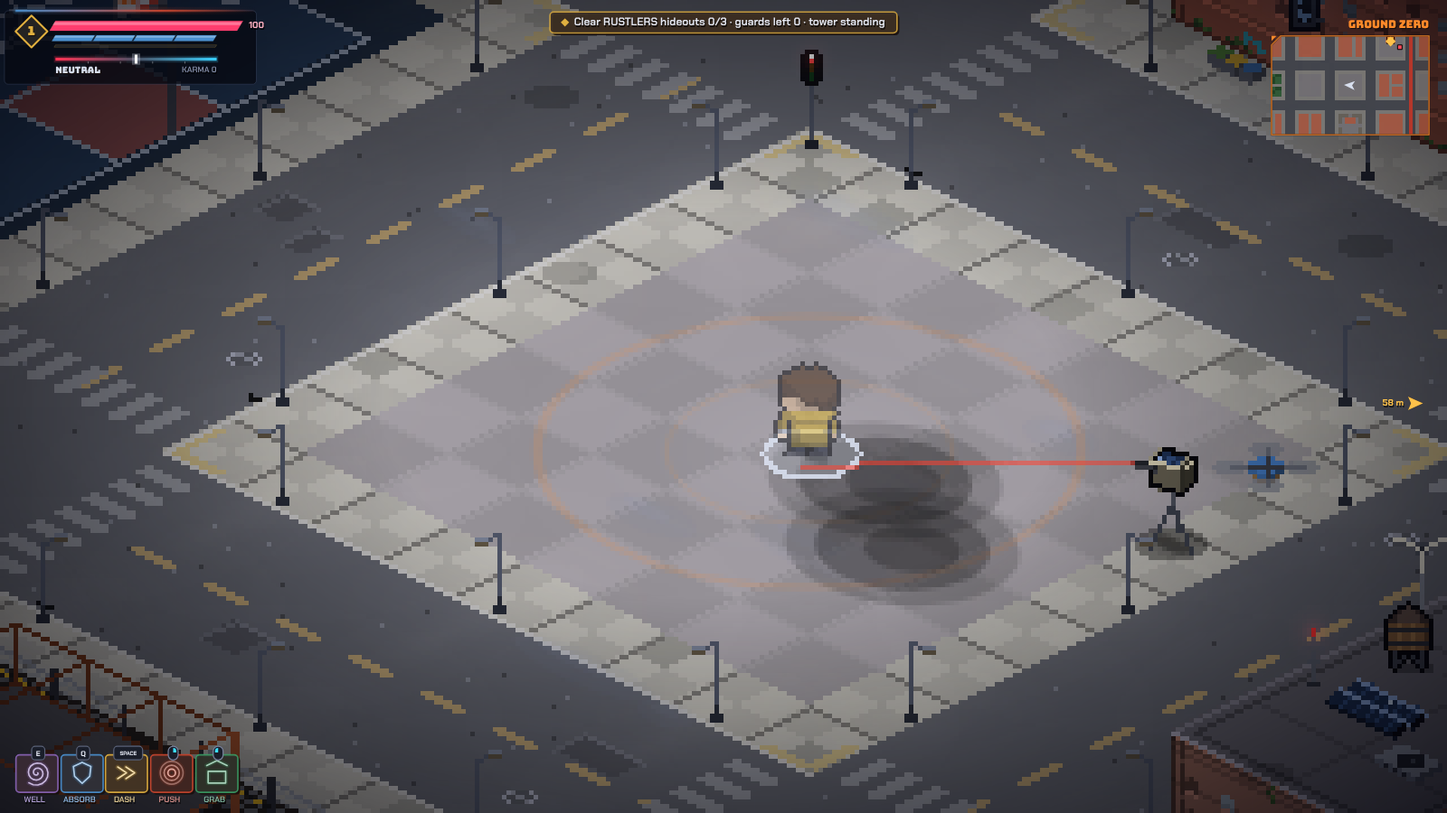
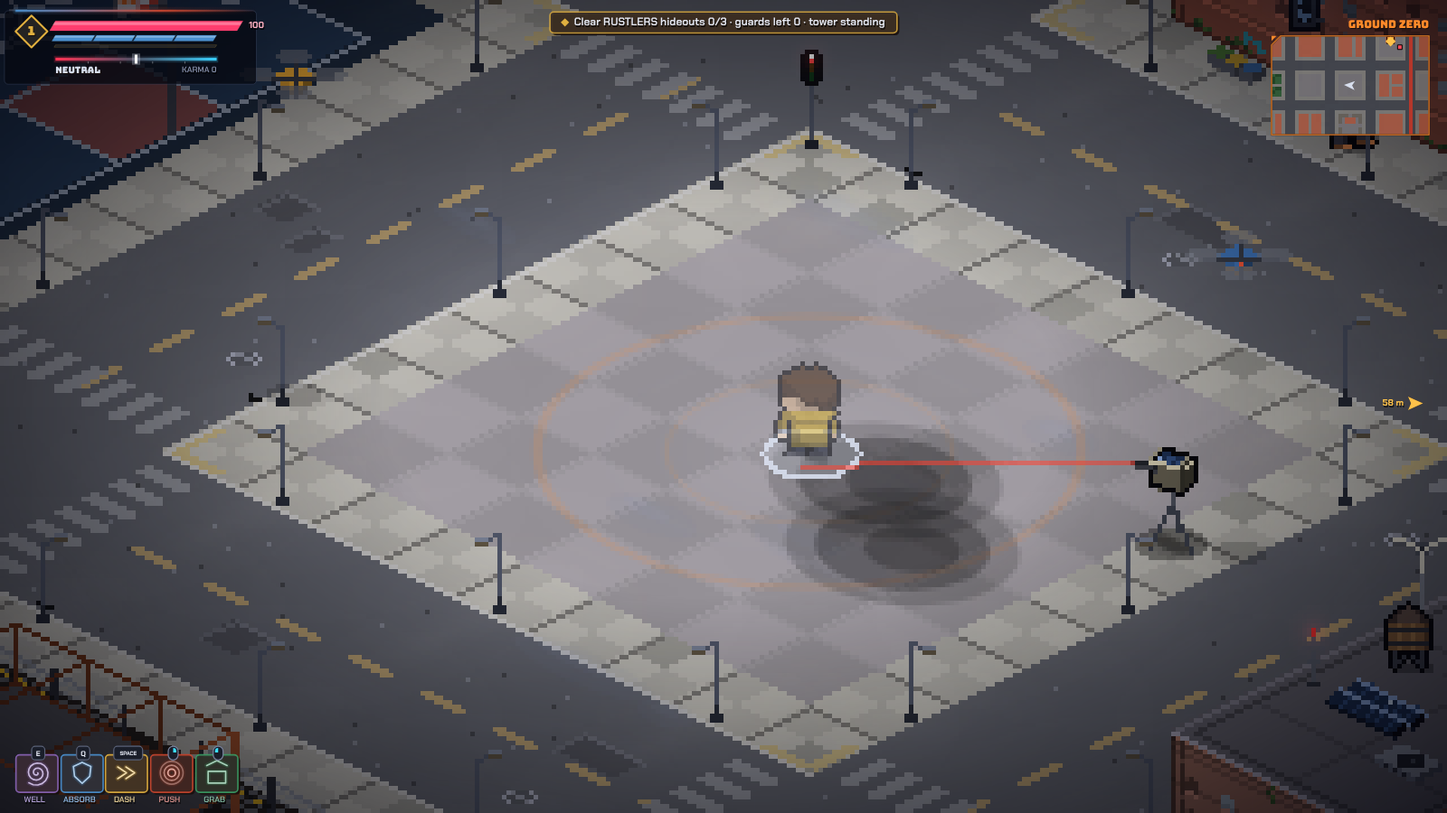
Fight tools: shattering solar panels, flooding water tanks, rogue couriers
Racks of spare solar panels shatter into shards that cut everything
nearby. Street water tanks burst and flood the ground: machines in the
water short out, and electricity reaching it hits everyone standing in
it. Rogue courier drones mark a spot on you and drop an explosive
parcel. All drawn in the iso view.

Claude-Session: https://claude.ai/code/session_01TQrqJid8SEs5fJFtrpg3VS

diff --git a/dist/gravitation.html b/dist/gravitation.html
@@ -1434,8 +1434,18 @@ function kill(e, info) {
   if (e.dead) return; e.dead = true; info = info || {};
   const k = e.kind, byP = info.by === 'player' || (k !== 'civ' && e.lastHitBy === 'player');   // a civilian you once brushed is not your kill when someone else finishes them
   if (e.held || e === (P && P.holding)) { e.held = false; if (P && P.holding === e) dropHeld(); }
+  if (k === 'panels') {   // solar panels shatter: a fan of glass shards that cuts anything in front of them
+    FX.sparks(e.x, e.y, 30, '#c8d8f0', 380); FX.debris(e.x, e.y, 16, '#2f4a7a', 300); sfx('hit', e.x, e.y); shake(.25);
+    for (const o of act) { if (o.dead || o.static || o.prop || o === P) continue; const d = Math.hypot(o.x - e.x, o.y - e.y); if (d < 90 + o.r) { hurt(o, 26 * (1 - d / 120), { by: byP ? 'player' : 'world' }); if (byP) o.lastHitBy = 'player'; } }
+    if (byP) comboHit(); return;
+  }
+  if (k === 'wtank') {    // a water tank bursts and floods the street for a while: machines in the water short out
+    FX.debris(e.x, e.y, 14, '#7a5636', 260); for (let i = 0; i < 30; i++) { const a = rnd(TAU), s = rnd(60, 220); parts.push({ k: 'd', x: e.x, y: e.y, vx: Math.cos(a) * s, vy: Math.sin(a) * s, life: rnd(.4, .9), max: .9, col: '#7aa8d8', w: 2.5 }); }
+    sfx('heavy', e.x, e.y); floods.push({ x: e.x, y: e.y, r: 70, t: 18, max: 18 }); if (byP) comboHit(); return;
+  }
   if (MACH[k] || k === 'cell') {   // machines: they break up in sparks; batteries and crawlers go off
     FX.sparks(e.x, e.y, 12, ZAP_COL, 240); FX.debris(e.x, e.y, k === 'loader' ? 14 : 6, '#5a5e6a', 200); FX.smoke(e.x, e.y, 3, '#3a3d48', .8); sfx('hit', e.x, e.y);
+    if (k === 'courier' && e.parcel !== false) explosion(e.x, e.y, 44, 12, byP ? 'player' : 'gang');
     if (k === 'crawler' || k === 'cell') elecBurst(e.x, e.y, k === 'cell' ? 84 : 72, k === 'cell' ? 30 : 22, byP ? 'player' : (info.by || 'gang'));
     if (e.team === 'gang') reward(e, byP); else if (k === 'cell' && byP) comboHit();
     if (k !== 'cell' && Math.random() < (k === 'sweeper' ? .5 : .35)) pickups.push({ x: e.x, y: e.y, vx: rnd(-40, 40), vy: rnd(-40, 40), type: 'en', life: 16 });   // solar cells: a bit of energy
@@ -2408,12 +2418,22 @@ Object.assign(DEFS, {
   scanner: { r: 8, m: 1, hp: 22, team: 'gang', rest: .4, grab: 1, xp: 10, speed: 70, hover: 30 },
   mirror:  { r: 9, m: 4, hp: 60, team: 'gang', static: 1, rest: .2, xp: 10 },
   vendbot: { r: 9, m: 4, hp: 40, team: 'bot', rest: .3, grab: 1, speed: 26 },
-  fixer:   { r: 7, m: 1, hp: 20, team: 'bot', rest: .4, grab: 1, speed: 80, hover: 26 }
+  fixer:   { r: 7, m: 1, hp: 20, team: 'bot', rest: .4, grab: 1, speed: 80, hover: 26 },
+  panels:  { r: 14, m: 8, hp: 30, team: 'prop', prop: 1, static: 1, rest: .2 },
+  wtank:   { r: 14, m: 10, hp: 70, team: 'prop', prop: 1, static: 1, rest: .2 },
+  courier: { r: 9, m: 1.2, hp: 26, team: 'gang', rest: .4, grab: 1, xp: 14, speed: 120, hover: 60 }
 });
-const MACH = { sweeper: 1, zapper: 1, crawler: 1, sentry: 1, loader: 1, mite: 1, hive: 1, scanner: 1, mirror: 1, vendbot: 1, fixer: 1 };
+const MACH = { sweeper: 1, zapper: 1, crawler: 1, sentry: 1, loader: 1, mite: 1, hive: 1, scanner: 1, mirror: 1, vendbot: 1, fixer: 1, courier: 1 };
 const ZAP_COL = '#fff2b0', ZAP_HOT = '#ffffff';
 const zaps = [];          // lightning drawn for a moment: { pts, life, max }
 const hazards = [];       // downed power lines: { x0, y0, x1, y1, t, arc, warn }
+const floods = [];        // water from a burst tank: { x, y, r, t, max }. Machines in it short out; electricity in it hits everyone standing in it
+const inFlood = e => floods.some(f => Math.hypot(e.x - f.x, e.y - f.y) < f.r);
+function floodShock(x, y, by) {   // electricity reaching water: everyone standing in that pool gets it
+  for (const f of floods) { if (Math.hypot(x - f.x, y - f.y) > f.r + 30) continue;
+    for (let i = 0; i < 5; i++) { const a = rnd(TAU), r = rnd(0, f.r); zapFx(f.x, f.y, f.x + Math.cos(a) * r, f.y + Math.sin(a) * r, .25); }
+    for (const e of act) if (!e.dead && !e.static && !e.prop && Math.hypot(e.x - f.x, e.y - f.y) < f.r) { if (e.kind === 'player' && by === 'player') continue; hurt(e, 18, { by }); if (e.kind !== 'player' && !e.dead) { e.stun = Math.max(e.stun, 1.2); if (by === 'player') e.lastHitBy = 'player'; } } }
+}
 
 /* ---------- electricity ---------- */
 function boltPts(x0, y0, x1, y1, n = 7, jag = 6) { const pts = [[x0, y0]]; for (let i = 1; i < n; i++) { const k = i / n; pts.push([lerp(x0, x1, k) + rnd(-jag, jag), lerp(y0, y1, k) + rnd(-jag, jag)]); } pts.push([x1, y1]); return pts; }
@@ -2423,7 +2443,7 @@ function elecBurst(x, y, r, dmg, by) {
   sfx('zap', x, y); sfx('boom', x, y, .5); shake(.4); hitstop(.04);
   FX.flash(x, y, r * 2.4, '#fff0c0', .4, 1); FX.ring(x, y, r, ZAP_COL, .3, 4); FX.sparks(x, y, 26, ZAP_COL, 380); FX.smoke(x, y, 4, '#4a4e58', 1);
   for (let i = 0; i < 6; i++) { const a = rnd(TAU), d = rnd(r * .4, r); zapFx(x, y, x + Math.cos(a) * d, y + Math.sin(a) * d, .22); }
-  decals.push({ x, y, r: r * .4, life: 30, k: 'scorch' });
+  decals.push({ x, y, r: r * .4, life: 30, k: 'scorch' }); floodShock(x, y, by);
   for (const e of act) {
     if (e.dead || e.static || e.held) continue;
     if (e.kind === 'player' && by === 'player') continue;
@@ -2547,7 +2567,14 @@ function aiMachine(e, dt) {
     if (d < e.r + t.r + 4 && e.cd <= 0) { if (t === P && P.absorbing) absorb(4); else hurt(t, 4, { by: 'gang', src: e }); FX.sparks(t.x, t.y, 4, ZAP_COL, 140); sfx('zap', e.x, e.y, .3); e.cd = .9; e.dartT = .45; const a = rnd(TAU); e.fx = Math.cos(a); e.fy = Math.sin(a); }
     return;
   }
-  if (k === 'loader') { e.tgt = t; aiBrute(e, dt); return; }   // a heavy walker: slams and charges like a brute
+  if (k === 'loader') { e.tgt = t; aiBrute(e, dt); return; }
+  if (k === 'courier') {   // rogue delivery drone: circles high, then marks a spot on you and drops its parcel (a small blast)
+    if (e.dropT > 0) { e.dropT -= dt; steer(e, e.dx - e.x, e.dy - e.y, e.speed * 1.4, dt, 6); if (e.dropT <= 0) { explosion(e.dx, e.dy, 52, 18, 'gang'); e.cd = 3.2; e.parcel = false; later(2.4, () => { if (!e.dead) e.parcel = true; }); } return; }
+    face(e, Math.atan2(dy, dx), dt, 6); e.orb = e.orb || (Math.random() < .5 ? 1 : -1);
+    if (d > 160) chase(e, t, e.speed, dt); else steer(e, -dy * e.orb + dx * .2, dx * e.orb + dy * .2, e.speed * .8, dt);
+    if (e.parcel !== false && d < 220 && e.cd <= 0) { e.dx = t.x + (t.vx || 0) * .5; e.dy = t.y + (t.vy || 0) * .5; e.dropT = .9; warnCircle(e.dx, e.dy, 52, .9, '#ff9a3a'); sfx('charge', e.x, e.y, .4); }
+    return;
+  }   // a heavy walker: slams and charges like a brute
 }
 
 /* ---------- downed power lines ---------- */
@@ -2566,6 +2593,9 @@ function updateHazards(dt) {
       if (h.arc <= 0) h.t = rnd(2.2, 4.2);
     } else if (h.t <= 0) { h.arc = .9; sfx('zap', (h.x0 + h.x1) / 2, (h.y0 + h.y1) / 2, .7); }
   }
+  for (const f of floods) { f.t -= dt; f.tick = (f.tick || 0) - dt; if (f.tick <= 0) { f.tick = .5; for (const e of act) if (!e.dead && MACH[e.kind] && e.team !== 'bot' && !e.static && Math.hypot(e.x - f.x, e.y - f.y) < f.r && !(e.def.hover)) { hurt(e, 6, { by: e.lastHitBy === 'player' ? 'player' : 'world' }); e.stun = Math.max(e.stun, .6); FX.sparks(e.x, e.y, 4, ZAP_COL, 120); } } }
+  for (let i = floods.length - 1; i >= 0; i--) if (floods[i].t <= 0) floods.splice(i, 1);
+  for (const h of hazards) if (h.arc > 0 && Math.random() < dt * 4) floodShock(h.x1, h.y1, 'world');   // a live cable lying in a flood
   for (const z of zaps) z.life -= dt; for (let i = zaps.length - 1; i >= 0; i--) if (zaps[i].life <= 0) zaps.splice(i, 1);
 }
 
@@ -2575,6 +2605,12 @@ function populateMachines() {
   for (let d = 0; d < 3; d++) for (let i = 0; i < [6, 4, 7][d]; i++) { const p = randomInDistrict(d, t => t === T.WALK, 10); if (p) mk('sweeper', p.x, p.y, { col: '#e0a030' }); }
   for (let d = 0; d < 3; d++) for (let i = 0; i < [4, 3, 5][d]; i++) { const p = randomInDistrict(d, t => t === T.WALK, 10); if (p) mk('vendbot', p.x, p.y, { col: pick(['#c8452e', '#2e7a5a', '#3a6aa8']), home: p }); }
   for (let d = 0; d < 3; d++) for (let i = 0; i < 2; i++) { const p = randomInDistrict(d, t => t === T.ROAD, 10); if (p) mk('fixer', p.x, p.y, { home: p }); }
+  floods.length = 0;
+  for (const b of blocks) { const r = mulberry(hash2(b.x + 3, b.y + 9)), cx = b.x + b.w / 2, cy = b.y + b.h / 2;
+    if ((b.kind === 'lot' || b.kind === 'yard' || b.kind === 'hide') && r() < .8) { const p = findFree(cx + rnd(-90, 90), b.y + b.h - 50, 40, 16); if (p) mk('panels', p.x, p.y, { ang: r() < .5 ? 0 : Math.PI / 2 }); }   // stacks of spare solar panels standing on edge
+    if ((b.kind === 'park' || b.kind === 'yard' || b.kind === 'court') && r() < .55) { const p = findFree(cx + rnd(-70, 70), cy + rnd(-70, 70), 50, 16); if (p) mk('wtank', p.x, p.y, { ang: 0 }); }   // street water tanks
+  }
+  for (let d = 0; d < 3; d++) for (let i = 0; i < [1, 2, 3][d]; i++) { const p = randomInDistrict(d, t => t === T.ROAD, 10); if (p && dist(p, START) > 500) spawnGang('courier', p.x, p.y, { home: p, terr: 360 }); }   // rogue couriers
   for (const b of blocks) {
     const cx = b.x + b.w / 2, cy = b.y + b.h / 2, d = b.d, home = { x: cx, y: cy };
     if (b.kind === 'yard') {   // the machine yard: a loader and its crawlers
@@ -6980,7 +7016,7 @@ const PROPS_ISO = { car: 1, crate: 1, dumpster: 1, barrel: 1 };
 // every person and prop is now pixel art; anything else (none at the moment) falls back to the old drawing
 function drawUpright(e) {
   if (PEOPLE[e.kind] || e === P) { artT(); drawChar(e); if (e.aimT > 0 && (e.kind === 'grunt' || e.kind === 'cop')) drawAimLaser(e); return; }
-  if (MACH[e.kind] || e.kind === 'cell') { artT(); drawMachine(e); return; }
+  if (MACH[e.kind] || e.kind === 'cell' || e.kind === 'panels' || e.kind === 'wtank') { artT(); drawMachine(e); return; }
   if (PROPS_ISO[e.kind]) { artT(); drawIsoProp(e); return; }
   if (e.kind === 'tower') { artT(); drawIsoTower(e); if (e.lk && e.lk.aimT > 0) drawAimLaser(e.lk); return; }
   uprightT(e.x, e.y);
@@ -8521,6 +8557,28 @@ function drawMachine(e) {
     if (e.hp < e.maxhp) { const top = P3(0, 0, 31), bw = 12, bx = Math.round(top[0] - 6), by = Math.round(top[1]); ctx.fillStyle = 'rgba(0,0,0,.7)'; ctx.fillRect(bx - 1, by - 1, bw + 2, 3); ctx.fillStyle = '#ff3d5a'; ctx.fillRect(bx, by, Math.max(0, Math.round(bw * e.hp / e.maxhp)), 1); }
     return;
   }
+  if (k === 'panels') {   // spare solar panels stood on edge in a timber rack
+    const P3 = mframe(e); mshadow(e, 14, 6);
+    pixBox(e, P3, 0, 26, 6, 0, 3, W('#5a3c1e'), W('#6a4a2a'));
+    for (let i = 0; i < 4; i++) pixBox(e, P3, -9 + i * 6, 2, 16, 3, 22 - i, W('#1c2e50'), W('#2f4a7a'), (s, quad, line) => { if (s === 0 || s === 2) return; line(s, 0, 21 - i, 1, 21 - i, '#8aa6d8'); line(s, .5, 3, .5, 21 - i, '#2f4a7a'); });
+    if (e.hp < e.maxhp && Math.random() < .2) FX.sparks(e.x, e.y, 1, '#c8d8f0', 60);
+    return;
+  }
+  if (k === 'wtank') {    // a street water tank: a timber barrel on steel legs, banded, with a tap
+    const P0 = propFrame({ x: e.x, y: e.y, ang: 0, z: 0 }); mshadow(e, 13, 6);
+    for (const [lx, ly] of [[-8, -8], [8, -8], [-8, 8], [8, 8]]) iline(P0(lx, ly, 0), P0(lx * .9, ly * .9, 12), '#3a3d48');
+    pixBox({ ang: 0 }, P0, 0, 22, 22, 12, 34, W('#7a5636'), W('#5c4a44'), (i, quad) => { for (const z of [15, 23, 31]) quad(i, 0, 1, z, z + 1.2, '#2b2d36'); for (let q = .2; q < 1; q += .2) quad(i, q, q + .02, 12, 34, '#5a3c22'); if (i === 0) quad(i, .45, .55, 13, 14.5, '#9aa0aa'); }, tp => { ipoly([tp(.2, .2), tp(.8, .2), tp(.8, .8), tp(.2, .8)], '#3a2e2c'); });
+    if (e.hp < e.maxhp && Math.random() < .3) parts.push({ k: 'd', x: e.x + rnd(-6, 6), y: e.y + 6, vx: rnd(-10, 10), vy: 30, life: .5, max: .5, col: '#7aa8d8', w: 2 });   // leaking
+    return;
+  }
+  if (k === 'courier') {  // rogue courier: a big four-rotor delivery drone with a parcel slung underneath, flying high
+    const hov = (e.def.hover || 60) - (e.dropT > 0 ? (1 - e.dropT / .9) * 20 : 0) + Math.sin(t * 4 + e.id) * 2, P3 = mframe(e, hov); mshadow(e, 8, 4);
+    const spin = Math.floor(t * 30) & 1;
+    for (const [ax, ay] of [[9, 9], [9, -9], [-9, 9], [-9, -9]]) { iline(P3(0, 0, 5), P3(ax, ay, 5), '#3a3e4a'); const c = P3(ax, ay, 7); iellipse(c[0], c[1], 4.5, 2, spin ? 'rgba(200,204,214,.75)' : 'rgba(122,127,140,.75)'); }
+    if (e.parcel !== false) { iline(P3(0, 0, 0), P3(0, 0, -5), '#2a2d36'); pixBox(e, P3, 0, 8, 8, -12, -5, W('#a08058'), W('#b8946a'), (i, quad) => quad(i, .45, .55, -12, -5, '#e0b040')); }
+    pixBox(e, P3, 0, 12, 10, 0, 6, W('#c8452e'), W('#d85a40'), (i, quad) => { if (i === 0) quad(i, .4, .6, 2, 4, '#1a2028'); quad(i, 0, 1, 0, 1, W('#8a2e20')); });
+    return;
+  }
   if (k === 'vendbot') {   // walking vending machine: a tall box on short legs, a glass front of cans, a coin slot, a solar lid
     const P3 = mframe(e), g = Math.floor(e.walk * 3) & 1; mshadow(e, 8, 4);
     for (const [ly, ph] of [[-3, 0], [3, 1]]) { const up = (ph ^ g) ? 1.5 : 0; pixBox(e, P3, 0, 3, 3, up, 4 + up, W('#2a2d36'), W('#3a3e4a')); }
@@ -8595,6 +8653,10 @@ function drawZaps() {
 // downed power lines: the cable on the ground, a spark crawling along it, the whole line flaring when it arcs
 function drawHazards() {
   const t = G.time;
+  for (const f of floods) {   // flood water: a dithered pool with ripples; it fades as it drains
+    if (!inView(f.x, f.y, f.r + 20)) continue; const a = Math.min(1, f.t / 3);
+    ctx.globalAlpha = .45 * a; gDither(f.x, f.y, f.r, '#4a7ab0'); ctx.globalAlpha = .22 * a; gDisc(f.x, f.y, f.r * .8, '#6a9ad0'); ctx.globalAlpha = .7 * a; gRing(f.x, f.y, f.r - ((t * 14) % 14), '#a8c8f0'); ctx.globalAlpha = 1;
+  }
   for (const h of hazards) {
     if (!inView((h.x0 + h.x1) / 2, (h.y0 + h.y1) / 2, 80)) continue;
     const a = isoXY(h.x0, h.y0, 0), b = isoXY(h.x1, h.y1, 0), mid = [(a[0] + b[0]) / 2 + 2, (a[1] + b[1]) / 2 + 2];

diff --git a/src/js/09c_machines.js b/src/js/09c_machines.js
@@ -15,12 +15,22 @@ Object.assign(DEFS, {
   scanner: { r: 8, m: 1, hp: 22, team: 'gang', rest: .4, grab: 1, xp: 10, speed: 70, hover: 30 },
   mirror:  { r: 9, m: 4, hp: 60, team: 'gang', static: 1, rest: .2, xp: 10 },
   vendbot: { r: 9, m: 4, hp: 40, team: 'bot', rest: .3, grab: 1, speed: 26 },
-  fixer:   { r: 7, m: 1, hp: 20, team: 'bot', rest: .4, grab: 1, speed: 80, hover: 26 }
+  fixer:   { r: 7, m: 1, hp: 20, team: 'bot', rest: .4, grab: 1, speed: 80, hover: 26 },
+  panels:  { r: 14, m: 8, hp: 30, team: 'prop', prop: 1, static: 1, rest: .2 },
+  wtank:   { r: 14, m: 10, hp: 70, team: 'prop', prop: 1, static: 1, rest: .2 },
+  courier: { r: 9, m: 1.2, hp: 26, team: 'gang', rest: .4, grab: 1, xp: 14, speed: 120, hover: 60 }
 });
-const MACH = { sweeper: 1, zapper: 1, crawler: 1, sentry: 1, loader: 1, mite: 1, hive: 1, scanner: 1, mirror: 1, vendbot: 1, fixer: 1 };
+const MACH = { sweeper: 1, zapper: 1, crawler: 1, sentry: 1, loader: 1, mite: 1, hive: 1, scanner: 1, mirror: 1, vendbot: 1, fixer: 1, courier: 1 };
 const ZAP_COL = '#fff2b0', ZAP_HOT = '#ffffff';
 const zaps = [];          // lightning drawn for a moment: { pts, life, max }
 const hazards = [];       // downed power lines: { x0, y0, x1, y1, t, arc, warn }
+const floods = [];        // water from a burst tank: { x, y, r, t, max }. Machines in it short out; electricity in it hits everyone standing in it
+const inFlood = e => floods.some(f => Math.hypot(e.x - f.x, e.y - f.y) < f.r);
+function floodShock(x, y, by) {   // electricity reaching water: everyone standing in that pool gets it
+  for (const f of floods) { if (Math.hypot(x - f.x, y - f.y) > f.r + 30) continue;
+    for (let i = 0; i < 5; i++) { const a = rnd(TAU), r = rnd(0, f.r); zapFx(f.x, f.y, f.x + Math.cos(a) * r, f.y + Math.sin(a) * r, .25); }
+    for (const e of act) if (!e.dead && !e.static && !e.prop && Math.hypot(e.x - f.x, e.y - f.y) < f.r) { if (e.kind === 'player' && by === 'player') continue; hurt(e, 18, { by }); if (e.kind !== 'player' && !e.dead) { e.stun = Math.max(e.stun, 1.2); if (by === 'player') e.lastHitBy = 'player'; } } }
+}
 
 /* ---------- electricity ---------- */
 function boltPts(x0, y0, x1, y1, n = 7, jag = 6) { const pts = [[x0, y0]]; for (let i = 1; i < n; i++) { const k = i / n; pts.push([lerp(x0, x1, k) + rnd(-jag, jag), lerp(y0, y1, k) + rnd(-jag, jag)]); } pts.push([x1, y1]); return pts; }
@@ -30,7 +40,7 @@ function elecBurst(x, y, r, dmg, by) {
   sfx('zap', x, y); sfx('boom', x, y, .5); shake(.4); hitstop(.04);
   FX.flash(x, y, r * 2.4, '#fff0c0', .4, 1); FX.ring(x, y, r, ZAP_COL, .3, 4); FX.sparks(x, y, 26, ZAP_COL, 380); FX.smoke(x, y, 4, '#4a4e58', 1);
   for (let i = 0; i < 6; i++) { const a = rnd(TAU), d = rnd(r * .4, r); zapFx(x, y, x + Math.cos(a) * d, y + Math.sin(a) * d, .22); }
-  decals.push({ x, y, r: r * .4, life: 30, k: 'scorch' });
+  decals.push({ x, y, r: r * .4, life: 30, k: 'scorch' }); floodShock(x, y, by);
   for (const e of act) {
     if (e.dead || e.static || e.held) continue;
     if (e.kind === 'player' && by === 'player') continue;
@@ -154,7 +164,14 @@ function aiMachine(e, dt) {
     if (d < e.r + t.r + 4 && e.cd <= 0) { if (t === P && P.absorbing) absorb(4); else hurt(t, 4, { by: 'gang', src: e }); FX.sparks(t.x, t.y, 4, ZAP_COL, 140); sfx('zap', e.x, e.y, .3); e.cd = .9; e.dartT = .45; const a = rnd(TAU); e.fx = Math.cos(a); e.fy = Math.sin(a); }
     return;
   }
-  if (k === 'loader') { e.tgt = t; aiBrute(e, dt); return; }   // a heavy walker: slams and charges like a brute
+  if (k === 'loader') { e.tgt = t; aiBrute(e, dt); return; }
+  if (k === 'courier') {   // rogue delivery drone: circles high, then marks a spot on you and drops its parcel (a small blast)
+    if (e.dropT > 0) { e.dropT -= dt; steer(e, e.dx - e.x, e.dy - e.y, e.speed * 1.4, dt, 6); if (e.dropT <= 0) { explosion(e.dx, e.dy, 52, 18, 'gang'); e.cd = 3.2; e.parcel = false; later(2.4, () => { if (!e.dead) e.parcel = true; }); } return; }
+    face(e, Math.atan2(dy, dx), dt, 6); e.orb = e.orb || (Math.random() < .5 ? 1 : -1);
+    if (d > 160) chase(e, t, e.speed, dt); else steer(e, -dy * e.orb + dx * .2, dx * e.orb + dy * .2, e.speed * .8, dt);
+    if (e.parcel !== false && d < 220 && e.cd <= 0) { e.dx = t.x + (t.vx || 0) * .5; e.dy = t.y + (t.vy || 0) * .5; e.dropT = .9; warnCircle(e.dx, e.dy, 52, .9, '#ff9a3a'); sfx('charge', e.x, e.y, .4); }
+    return;
+  }   // a heavy walker: slams and charges like a brute
 }
 
 /* ---------- downed power lines ---------- */
@@ -173,6 +190,9 @@ function updateHazards(dt) {
       if (h.arc <= 0) h.t = rnd(2.2, 4.2);
     } else if (h.t <= 0) { h.arc = .9; sfx('zap', (h.x0 + h.x1) / 2, (h.y0 + h.y1) / 2, .7); }
   }
+  for (const f of floods) { f.t -= dt; f.tick = (f.tick || 0) - dt; if (f.tick <= 0) { f.tick = .5; for (const e of act) if (!e.dead && MACH[e.kind] && e.team !== 'bot' && !e.static && Math.hypot(e.x - f.x, e.y - f.y) < f.r && !(e.def.hover)) { hurt(e, 6, { by: e.lastHitBy === 'player' ? 'player' : 'world' }); e.stun = Math.max(e.stun, .6); FX.sparks(e.x, e.y, 4, ZAP_COL, 120); } } }
+  for (let i = floods.length - 1; i >= 0; i--) if (floods[i].t <= 0) floods.splice(i, 1);
+  for (const h of hazards) if (h.arc > 0 && Math.random() < dt * 4) floodShock(h.x1, h.y1, 'world');   // a live cable lying in a flood
   for (const z of zaps) z.life -= dt; for (let i = zaps.length - 1; i >= 0; i--) if (zaps[i].life <= 0) zaps.splice(i, 1);
 }
 
@@ -182,6 +202,12 @@ function populateMachines() {
   for (let d = 0; d < 3; d++) for (let i = 0; i < [6, 4, 7][d]; i++) { const p = randomInDistrict(d, t => t === T.WALK, 10); if (p) mk('sweeper', p.x, p.y, { col: '#e0a030' }); }
   for (let d = 0; d < 3; d++) for (let i = 0; i < [4, 3, 5][d]; i++) { const p = randomInDistrict(d, t => t === T.WALK, 10); if (p) mk('vendbot', p.x, p.y, { col: pick(['#c8452e', '#2e7a5a', '#3a6aa8']), home: p }); }
   for (let d = 0; d < 3; d++) for (let i = 0; i < 2; i++) { const p = randomInDistrict(d, t => t === T.ROAD, 10); if (p) mk('fixer', p.x, p.y, { home: p }); }
+  floods.length = 0;
+  for (const b of blocks) { const r = mulberry(hash2(b.x + 3, b.y + 9)), cx = b.x + b.w / 2, cy = b.y + b.h / 2;
+    if ((b.kind === 'lot' || b.kind === 'yard' || b.kind === 'hide') && r() < .8) { const p = findFree(cx + rnd(-90, 90), b.y + b.h - 50, 40, 16); if (p) mk('panels', p.x, p.y, { ang: r() < .5 ? 0 : Math.PI / 2 }); }   // stacks of spare solar panels standing on edge
+    if ((b.kind === 'park' || b.kind === 'yard' || b.kind === 'court') && r() < .55) { const p = findFree(cx + rnd(-70, 70), cy + rnd(-70, 70), 50, 16); if (p) mk('wtank', p.x, p.y, { ang: 0 }); }   // street water tanks
+  }
+  for (let d = 0; d < 3; d++) for (let i = 0; i < [1, 2, 3][d]; i++) { const p = randomInDistrict(d, t => t === T.ROAD, 10); if (p && dist(p, START) > 500) spawnGang('courier', p.x, p.y, { home: p, terr: 360 }); }   // rogue couriers
   for (const b of blocks) {
     const cx = b.x + b.w / 2, cy = b.y + b.h / 2, d = b.d, home = { x: cx, y: cy };
     if (b.kind === 'yard') {   // the machine yard: a loader and its crawlers

diff --git a/test/machines.js b/test/machines.js
@@ -7,9 +7,9 @@ const { chromium } = require('playwright'); const path = require('path'); const 
   await p.goto('file://' + ROOT + '/dist/gravitation.html'); await p.waitForTimeout(400);
   await p.evaluate(() => localStorage.clear()); await p.reload(); await p.waitForTimeout(500);
   await p.evaluate(() => { KC.start(); KC.skip(); G.seen = new Proxy({}, { get: () => 1, set: () => true }); KC.time('day'); KC.weather('dry'); SETTINGS.hud = .7; });
-  const counts = await p.evaluate(() => { const c = {}; for (const e of ents) if (!e.dead && (MACH[e.kind] || e.kind === 'cell')) c[e.kind] = (c[e.kind] || 0) + 1; c.powerLines = hazards.length; return c; });
+  const counts = await p.evaluate(() => { const c = {}; for (const e of ents) if (!e.dead && (MACH[e.kind] || e.kind === 'cell' || e.kind === 'panels' || e.kind === 'wtank')) c[e.kind] = (c[e.kind] || 0) + 1; c.powerLines = hazards.length; return c; });
   console.log('in the world:', JSON.stringify(counts));
-  ok('every machine is placed in the world', ['sweeper', 'zapper', 'crawler', 'sentry', 'loader', 'cell', 'hive', 'scanner', 'mirror'].every(k => counts[k] > 0) && counts.powerLines > 0);
+  ok('every machine is placed in the world', ['sweeper', 'zapper', 'crawler', 'sentry', 'loader', 'cell', 'hive', 'scanner', 'mirror', 'vendbot', 'fixer', 'panels', 'wtank', 'courier'].every(k => counts[k] > 0) && counts.powerLines > 0);
   const stage = async (setup, ms, name) => { await p.evaluate(setup); await p.waitForTimeout(ms); await p.evaluate(() => { G.hint = null; G.toasts.length = 0; }); await p.screenshot({ path: ROOT + '/screenshots/machines_' + name + '.png' }); };
   const clear = `const x = 1008, y = 1392; for (const e of ents) if (e !== P && !e.dead && e.kind !== 'hideout' && e.kind !== 'tower' && Math.hypot(e.x - x, e.y - y) < 600) e.dead = true; KC.tp(x, y); P.invT = 1e9; P.hp = S.maxHp; P.energy = S.maxEn;`;
   // line-up: everything standing still, facing the camera
@@ -25,6 +25,10 @@ const { chromium } = require('playwright'); const path = require('path'); const 
   await stage(new Function(clear + `spawnGang('hive', P.x + 110, P.y - 20, { home: { x: P.x + 110, y: P.y - 20 }, terr: 400 });`), 3500, 'hive');
   await stage(new Function(clear + `const s = spawnGang('scanner', P.x + 90, P.y - 40, { home: { x: P.x, y: P.y }, terr: 600 }); s.sweep = Math.atan2(40, -90); s.ang = s.sweep; s.sweepT = 9; for (let i = 0; i < 2; i++) spawnGang('grunt', P.x + 200, P.y + 100 + i * 20, { home: { x: P.x + 200, y: P.y + 100 }, terr: 50 }).cd = 9;`), 900, 'scanner');
   await stage(new Function(clear + `KC.time('day'); spawnGang('mirror', P.x + 120, P.y - 60, { home: { x: P.x, y: P.y }, terr: 400 }); spawnGang('mirror', P.x - 60, P.y + 120, { home: { x: P.x, y: P.y }, terr: 400 });`), 2200, 'mirror');
+  await stage(new Function(clear + `KC.time('day'); const c = spawnGang('courier', P.x + 100, P.y - 40, { home: { x: P.x, y: P.y }, terr: 500 }); c.cd = 0;`), 1500, 'courier');
+  await stage(new Function(clear + `const w = mk('panels', P.x + 70, P.y - 10, { ang: 0 }); mk('wtank', P.x - 70, P.y + 60); for (let i = 0; i < 3; i++) { const g = spawnGang('crawler', P.x + 120 + i * 14, P.y - 40 + i * 20, { home: { x: P.x + 2000, y: P.y }, terr: 1 }); g.speed = 0; } KC.hurt(w, 99, { by: 'player' });`), 160, 'panels_shatter');
+  await stage(new Function(`const t = ents.find(e => e.kind === 'wtank' && !e.dead && Math.hypot(e.x - P.x, e.y - P.y) < 200); for (let i = 0; i < 3; i++) { const g = spawnGang('crawler', t.x + 20 + i * 12, t.y + 10, { home: { x: t.x + 2000, y: t.y }, terr: 1 }); g.speed = 0; } KC.hurt(t, 999, { by: 'player' });`), 1400, 'flood');
+  ok('a burst tank floods the street and shorts the machines in it', await p.evaluate(() => floods.length > 0 && ents.some(e => e.kind === 'crawler' && (e.dead || e.hp < e.maxhp))));
   const h = await p.evaluate(() => { const h = hazards[0]; KC.tp(h.x1 + 30, h.y1 + 30); P.invT = 1e9; return { x: h.x1, y: h.y1 }; });
   await p.waitForTimeout(1200); await p.evaluate(() => { const h = hazards[0]; h.arc = .9; h.t = 0; G.hint = null; G.toasts.length = 0; }); await p.waitForTimeout(250); await p.screenshot({ path: ROOT + '/screenshots/machines_power_line.png' });
   await stage(new Function(`KC.time('sunset'); const s = ents.find(e => e.kind === 'sweeper' && !e.dead); KC.tp(s.x + 40, s.y + 30); P.invT = 1e9;`), 1500, 'sweeper_street');

diff --git a/src/js/11k_machines.js b/src/js/11k_machines.js
@@ -68,6 +68,28 @@ function drawMachine(e) {
     if (e.hp < e.maxhp) { const top = P3(0, 0, 31), bw = 12, bx = Math.round(top[0] - 6), by = Math.round(top[1]); ctx.fillStyle = 'rgba(0,0,0,.7)'; ctx.fillRect(bx - 1, by - 1, bw + 2, 3); ctx.fillStyle = '#ff3d5a'; ctx.fillRect(bx, by, Math.max(0, Math.round(bw * e.hp / e.maxhp)), 1); }
     return;
   }
+  if (k === 'panels') {   // spare solar panels stood on edge in a timber rack
+    const P3 = mframe(e); mshadow(e, 14, 6);
+    pixBox(e, P3, 0, 26, 6, 0, 3, W('#5a3c1e'), W('#6a4a2a'));
+    for (let i = 0; i < 4; i++) pixBox(e, P3, -9 + i * 6, 2, 16, 3, 22 - i, W('#1c2e50'), W('#2f4a7a'), (s, quad, line) => { if (s === 0 || s === 2) return; line(s, 0, 21 - i, 1, 21 - i, '#8aa6d8'); line(s, .5, 3, .5, 21 - i, '#2f4a7a'); });
+    if (e.hp < e.maxhp && Math.random() < .2) FX.sparks(e.x, e.y, 1, '#c8d8f0', 60);
+    return;
+  }
+  if (k === 'wtank') {    // a street water tank: a timber barrel on steel legs, banded, with a tap
+    const P0 = propFrame({ x: e.x, y: e.y, ang: 0, z: 0 }); mshadow(e, 13, 6);
+    for (const [lx, ly] of [[-8, -8], [8, -8], [-8, 8], [8, 8]]) iline(P0(lx, ly, 0), P0(lx * .9, ly * .9, 12), '#3a3d48');
+    pixBox({ ang: 0 }, P0, 0, 22, 22, 12, 34, W('#7a5636'), W('#5c4a44'), (i, quad) => { for (const z of [15, 23, 31]) quad(i, 0, 1, z, z + 1.2, '#2b2d36'); for (let q = .2; q < 1; q += .2) quad(i, q, q + .02, 12, 34, '#5a3c22'); if (i === 0) quad(i, .45, .55, 13, 14.5, '#9aa0aa'); }, tp => { ipoly([tp(.2, .2), tp(.8, .2), tp(.8, .8), tp(.2, .8)], '#3a2e2c'); });
+    if (e.hp < e.maxhp && Math.random() < .3) parts.push({ k: 'd', x: e.x + rnd(-6, 6), y: e.y + 6, vx: rnd(-10, 10), vy: 30, life: .5, max: .5, col: '#7aa8d8', w: 2 });   // leaking
+    return;
+  }
+  if (k === 'courier') {  // rogue courier: a big four-rotor delivery drone with a parcel slung underneath, flying high
+    const hov = (e.def.hover || 60) - (e.dropT > 0 ? (1 - e.dropT / .9) * 20 : 0) + Math.sin(t * 4 + e.id) * 2, P3 = mframe(e, hov); mshadow(e, 8, 4);
+    const spin = Math.floor(t * 30) & 1;
+    for (const [ax, ay] of [[9, 9], [9, -9], [-9, 9], [-9, -9]]) { iline(P3(0, 0, 5), P3(ax, ay, 5), '#3a3e4a'); const c = P3(ax, ay, 7); iellipse(c[0], c[1], 4.5, 2, spin ? 'rgba(200,204,214,.75)' : 'rgba(122,127,140,.75)'); }
+    if (e.parcel !== false) { iline(P3(0, 0, 0), P3(0, 0, -5), '#2a2d36'); pixBox(e, P3, 0, 8, 8, -12, -5, W('#a08058'), W('#b8946a'), (i, quad) => quad(i, .45, .55, -12, -5, '#e0b040')); }
+    pixBox(e, P3, 0, 12, 10, 0, 6, W('#c8452e'), W('#d85a40'), (i, quad) => { if (i === 0) quad(i, .4, .6, 2, 4, '#1a2028'); quad(i, 0, 1, 0, 1, W('#8a2e20')); });
+    return;
+  }
   if (k === 'vendbot') {   // walking vending machine: a tall box on short legs, a glass front of cans, a coin slot, a solar lid
     const P3 = mframe(e), g = Math.floor(e.walk * 3) & 1; mshadow(e, 8, 4);
     for (const [ly, ph] of [[-3, 0], [3, 1]]) { const up = (ph ^ g) ? 1.5 : 0; pixBox(e, P3, 0, 3, 3, up, 4 + up, W('#2a2d36'), W('#3a3e4a')); }
@@ -142,6 +164,10 @@ function drawZaps() {
 // downed power lines: the cable on the ground, a spark crawling along it, the whole line flaring when it arcs
 function drawHazards() {
   const t = G.time;
+  for (const f of floods) {   // flood water: a dithered pool with ripples; it fades as it drains
+    if (!inView(f.x, f.y, f.r + 20)) continue; const a = Math.min(1, f.t / 3);
+    ctx.globalAlpha = .45 * a; gDither(f.x, f.y, f.r, '#4a7ab0'); ctx.globalAlpha = .22 * a; gDisc(f.x, f.y, f.r * .8, '#6a9ad0'); ctx.globalAlpha = .7 * a; gRing(f.x, f.y, f.r - ((t * 14) % 14), '#a8c8f0'); ctx.globalAlpha = 1;
+  }
   for (const h of hazards) {
     if (!inView((h.x0 + h.x1) / 2, (h.y0 + h.y1) / 2, 80)) continue;
     const a = isoXY(h.x0, h.y0, 0), b = isoXY(h.x1, h.y1, 0), mid = [(a[0] + b[0]) / 2 + 2, (a[1] + b[1]) / 2 + 2];

diff --git a/src/js/07_combat.js b/src/js/07_combat.js
@@ -144,8 +144,18 @@ function kill(e, info) {
   if (e.dead) return; e.dead = true; info = info || {};
   const k = e.kind, byP = info.by === 'player' || (k !== 'civ' && e.lastHitBy === 'player');   // a civilian you once brushed is not your kill when someone else finishes them
   if (e.held || e === (P && P.holding)) { e.held = false; if (P && P.holding === e) dropHeld(); }
+  if (k === 'panels') {   // solar panels shatter: a fan of glass shards that cuts anything in front of them
+    FX.sparks(e.x, e.y, 30, '#c8d8f0', 380); FX.debris(e.x, e.y, 16, '#2f4a7a', 300); sfx('hit', e.x, e.y); shake(.25);
+    for (const o of act) { if (o.dead || o.static || o.prop || o === P) continue; const d = Math.hypot(o.x - e.x, o.y - e.y); if (d < 90 + o.r) { hurt(o, 26 * (1 - d / 120), { by: byP ? 'player' : 'world' }); if (byP) o.lastHitBy = 'player'; } }
+    if (byP) comboHit(); return;
+  }
+  if (k === 'wtank') {    // a water tank bursts and floods the street for a while: machines in the water short out
+    FX.debris(e.x, e.y, 14, '#7a5636', 260); for (let i = 0; i < 30; i++) { const a = rnd(TAU), s = rnd(60, 220); parts.push({ k: 'd', x: e.x, y: e.y, vx: Math.cos(a) * s, vy: Math.sin(a) * s, life: rnd(.4, .9), max: .9, col: '#7aa8d8', w: 2.5 }); }
+    sfx('heavy', e.x, e.y); floods.push({ x: e.x, y: e.y, r: 70, t: 18, max: 18 }); if (byP) comboHit(); return;
+  }
   if (MACH[k] || k === 'cell') {   // machines: they break up in sparks; batteries and crawlers go off
     FX.sparks(e.x, e.y, 12, ZAP_COL, 240); FX.debris(e.x, e.y, k === 'loader' ? 14 : 6, '#5a5e6a', 200); FX.smoke(e.x, e.y, 3, '#3a3d48', .8); sfx('hit', e.x, e.y);
+    if (k === 'courier' && e.parcel !== false) explosion(e.x, e.y, 44, 12, byP ? 'player' : 'gang');
     if (k === 'crawler' || k === 'cell') elecBurst(e.x, e.y, k === 'cell' ? 84 : 72, k === 'cell' ? 30 : 22, byP ? 'player' : (info.by || 'gang'));
     if (e.team === 'gang') reward(e, byP); else if (k === 'cell' && byP) comboHit();
     if (k !== 'cell' && Math.random() < (k === 'sweeper' ? .5 : .35)) pickups.push({ x: e.x, y: e.y, vx: rnd(-40, 40), vy: rnd(-40, 40), type: 'en', life: 16 });   // solar cells: a bit of energy

diff --git a/src/js/11d_props.js b/src/js/11d_props.js
@@ -264,7 +264,7 @@ const PROPS_ISO = { car: 1, crate: 1, dumpster: 1, barrel: 1 };
 // every person and prop is now pixel art; anything else (none at the moment) falls back to the old drawing
 function drawUpright(e) {
   if (PEOPLE[e.kind] || e === P) { artT(); drawChar(e); if (e.aimT > 0 && (e.kind === 'grunt' || e.kind === 'cop')) drawAimLaser(e); return; }
-  if (MACH[e.kind] || e.kind === 'cell') { artT(); drawMachine(e); return; }
+  if (MACH[e.kind] || e.kind === 'cell' || e.kind === 'panels' || e.kind === 'wtank') { artT(); drawMachine(e); return; }
   if (PROPS_ISO[e.kind]) { artT(); drawIsoProp(e); return; }
   if (e.kind === 'tower') { artT(); drawIsoTower(e); if (e.lk && e.lk.aimT > 0) drawAimLaser(e.lk); return; }
   uprightT(e.x, e.y);

diff --git a/HANDOFF.md b/HANDOFF.md
@@ -33,7 +33,7 @@ A prototype of a top-down superhero/supervillain game inspired by inFamous, GTA 
 - **Frame:** fixed 16:9 and letterboxed.
 - **Setting:** an ordinary rainy city (the user's words: "Grand Theft Auto meets Hey Arnold", New York brick and brownstone, Seattle weather). **The old neon cyberpunk night is gone on purpose: the user found it generic. Do not bring neon back.**
 - **The world's flavour (the user's own description, 2026-11-27; keep to it):** a down-to-earth near future, "solarpunk mixed with dystopian capitalism". Capitalism lasted long enough to make technology powerful enough to fill some of its own holes: people build their own software and hardware with AI help, wire up their own solar panels and grow their own food, and survive what was a slow apocalypse of sorts, yet the city is still a pretty cool place to live. Keep the ordinary modern city look; tech can be strange and inventive (lasers, AI, drones, e.g. solar-panelled drones that shoot electricity), but **never pink/purple/blue neon cyberpunk**. The red laser barricade is fine. Good source of new enemies and environmental hazards.
-- **Machines and hazards (09c_machines.js, drawn in 11k_machines.js), first batch made on the user's free-roam brief; awaiting their picks:** solar street sweepers (team `bot`, harmless, drop energy), spark drones (`zapper`, hover over car parks, telegraphed lightning bolt), repo crawlers (`crawler`, run at you and burst), sentry posts (`sentry`, static turret by each hideout gate, does not hold the gate), loader mechs (`loader`, heavy walker outside each yard, fights like a brute), mites (`mite`, tiny swarm drones; not placed in the world yet), battery banks (`cell`, throwable, burst with electricity and chain), downed power lines (`hazards`, arc on a cycle, hurt anything but civilians). Batch 2: mite hives (`hive`, static, in overgrown parks, release up to 6 mites while you are near), scanner drones (`scanner`, patrol; when the cone fills on you every gang member and machine within 420 px comes for you), heliostats (`mirror`, static, round courts and the Tower plaza; by day and at sunset they track you with a sun-spot that burns once it heats up; idle at night). Street furniture and delivery drones: `11l_street_life.js`. Friendly machines (team `bot`): walking vending robots (`vendbot`; people stop at them; stand next to one and it hands you a drink = energy, every 25 s) and repair drones (`fixer`; fly over the roofs to downed power lines and make them safe for 60 s, otherwise tend the charging posts). Electricity is pale yellow-white. `node test/machines.js`. **Every new object must be drawn in the same isometric projection as the props (oriented `pixBox` boxes via `propFrame`, or `isoXY` shapes), never as a flat front-on sprite.** The user rejected the first, flat version of these machines for exactly that ("we went through all of this before").
+- **Machines and hazards (09c_machines.js, drawn in 11k_machines.js), first batch made on the user's free-roam brief; awaiting their picks:** solar street sweepers (team `bot`, harmless, drop energy), spark drones (`zapper`, hover over car parks, telegraphed lightning bolt), repo crawlers (`crawler`, run at you and burst), sentry posts (`sentry`, static turret by each hideout gate, does not hold the gate), loader mechs (`loader`, heavy walker outside each yard, fights like a brute), mites (`mite`, tiny swarm drones; not placed in the world yet), battery banks (`cell`, throwable, burst with electricity and chain), downed power lines (`hazards`, arc on a cycle, hurt anything but civilians). Batch 2: mite hives (`hive`, static, in overgrown parks, release up to 6 mites while you are near), scanner drones (`scanner`, patrol; when the cone fills on you every gang member and machine within 420 px comes for you), heliostats (`mirror`, static, round courts and the Tower plaza; by day and at sunset they track you with a sun-spot that burns once it heats up; idle at night). Batch 3 (fight tools): racks of spare solar panels (`panels`, static prop in car parks, yards and by hideouts; break them and glass shards cut everything within 90 px), street water tanks (`wtank`, in parks, yards and courts; burst one and it floods 70 px for 18 s: ground machines in the water short out, and any electricity reaching the water (battery or crawler burst, a live power line) hits everyone standing in it, you included), rogue couriers (`courier`, high-flying delivery drones that mark a spot on you and drop an explosive parcel; one in Ground Zero, more later). Street furniture and delivery drones: `11l_street_life.js`. Friendly machines (team `bot`): walking vending robots (`vendbot`; people stop at them; stand next to one and it hands you a drink = energy, every 25 s) and repair drones (`fixer`; fly over the roofs to downed power lines and make them safe for 60 s, otherwise tend the charging posts). Electricity is pale yellow-white. `node test/machines.js`. **Every new object must be drawn in the same isometric projection as the props (oriented `pixBox` boxes via `propFrame`, or `isoXY` shapes), never as a flat front-on sprite.** The user rejected the first, flat version of these machines for exactly that ("we went through all of this before").
 - **People have roles** (`09d_people.js`, the user asked for the street to feel alive, not background noise). Walkers streamed in as before but as commuter / stroller / jogger / gawker, each with its own pace and habits; anyone may stop to chat with someone passing, listen to a busker or queue at a food cart. Placed people who stay at their spot: buskers (music notes, coins in the case), food-cart vendors (an iso cart with a striped awning), gardeners at planters, tinkerers at charging posts, kids chasing each other in parks. Gawkers film explosions instead of running. Small speech bubbles show what they are doing. How easily each one panics varies (`roleFear`). Behaviour only: no sprite changes.
 - **Signed off by the user (2026-11-27):** current enemies are fine as placeholders for now; the music, sound effects and soundtrack are fine.
 - **Times of day** (`04b_times.js`): `sunset`, `night` and `day`, each ONLY colours and light (the user was explicit: no sprite or drawing changes). `applyTime(name)` repaints district palettes and each building's wall, roof and window colours, sets the light levels in `LIGHT` (glow, light pools, lamps lit, wash, how green, how light the water) and clears the cached pictures. The user wants to keep all three and use them per story section later. For now it is a setting (Settings → Display → Time of day, `SETTINGS.time`, default sunset, my pick) and `KC.time(name)`. Signs keep their shapes but are painted shop colours (`NEON_GOOD`/`NEON_EVIL` in 04_world.js keep their old names); roof trims are off. `node test/times.js`.
